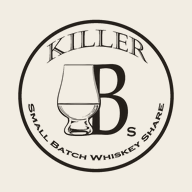
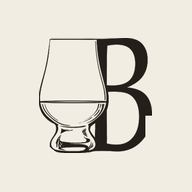
Add files via upload

Changed region(s): [[0.0938, 0.0938, 0.9062, 0.9062]]

diff --git a/CHANGELOG.md b/CHANGELOG.md
@@ -2,6 +2,10 @@
 
 Newest first. The file header in index.html carries the headlines; the full entries live here.
 
+## v1.6.50  ·  2026-09-04 02:39 PM ET
+
+The mark is the glass and the B, and nothing else. The roundel said KILLER and SMALL BATCH WHISKEY SHARE around its edge, which was the old name written twice on an icon that is 52 pixels wide in the masthead and a thumbnail on a home screen - unreadable at that size and wrong at any size now. The glass and the B were always the mark; the ring was a label around it. Cut from the 512 icon rather than the 160 one so the line work holds up, the ring cleared by radius, the leftover apostrophe s removed, then trimmed to the ink and centred. Three sizes off the one glyph: 20 percent padding on both icons because Android masks a circle out of a square and a glyph that runs to the edge loses its corners, and 15 percent on the masthead mark because the roundel carried its own margin and the glyph on its own does not. The audit's two image checks still pass: the mark carries transparency and the manifest still declares a maskable icon. 2308 assertions.
+
 ## v1.6.49  ·  2026-09-04 02:16 PM ET
 
 Home ends with something to do, Buddies got room, and the Library moved to Settings. The page said what you own and what it says about you and then stopped: every action lived on another tab. What to do next chooses at most three from what the shelf is actually short of, cheapest first - an evening with what you already own before spending money - so it changes because the shelf changed rather than being the same four buttons every visit, which is a navigation bar in the wrong place. On this shelf it offers the four bottles bought twice and never poured, then Origin at 67 percent, then the recommender. A shelf with no pour log is told why that matters, because everything in the second half of the app runs on it, and a shelf that has been poured is not nagged about it. An admin with entries waiting is offered them last, since it is the only person who can clear them. Nothing owing draws no card at all. The masthead pills are gone: Pour and Add were the Taste and Shop tabs said twice, and the two that had no tab of their own now have real homes. Buddies has a card that says what sharing is FOR - each of you seeing what the other has open, which is how a flight becomes an evening rather than a list - because it was a single word in a masthead and that is where the half of the app nobody could find had been hiding. The library is a place rather than a thing to do, so it sits in Settings. One test caught a real distinction: called with no state at all, the chooser was offering the log-a-pour nag, because absent read as zero. Absent is not zero and now says nothing. 13 new assertions, 2308 total.
